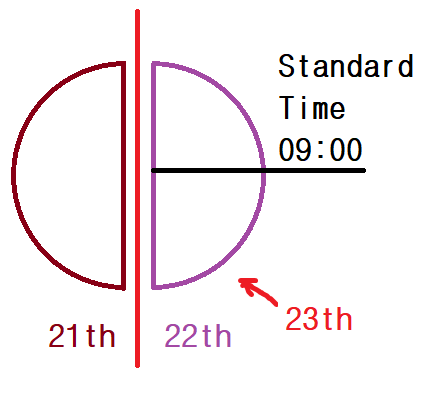
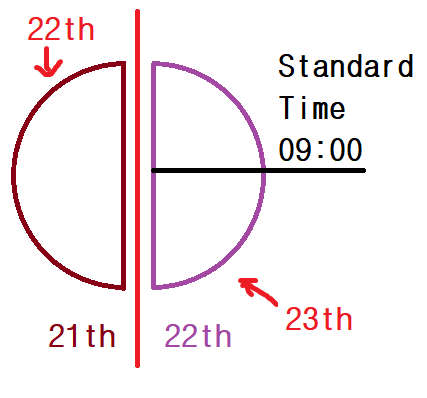
설명 수정

Changed region(s): [[0.0609, 0.0302, 0.2436, 0.2111]]

diff --git a/DGU_TimeScheduler/README.md b/DGU_TimeScheduler/README.md
@@ -9,14 +9,16 @@
 
 예>
 기준 시간 '09:00'이면 '2024-05-21 09:00:00 ~ 2024-05-22 08:59:59' 까지는 '2024-05-21'로 표시됩니다.
+![이미지](https://raw.githubusercontent.com/dang-gun/DGUtility_DotNet/main/DGU_TimeTest/ProjectFiles/DGU_TimeStandard_001.png)
 
 반대의 기능도 있습니다.
 예>
 기준 시간 '09:00'이면 '2024-05-22 09:00:00 ~ 2024-05-23 08:59:59' 까지는 '2024-05-23'로 표시됩니다.
+![이미지](https://raw.githubusercontent.com/dang-gun/DGUtility_DotNet/main/DGU_TimeTest/ProjectFiles/DGU_TimeStandard_002.png)
 
 ## 사용방법
 1. TimeScheduler를 생성합니다.
-1. 
+
 ```
 TimeScheduler tsObj = new TimeScheduler(DateTime.Now, true);
 ```
@@ -31,3 +33,13 @@ bNextDay : 기준 시간이 지나면 다음날 취급할지 여부
 - 기본값 : false
 - true : 기준 시간이 지나면 다음날로 취급한다.
 - false : 기준 시간 지나기 전까지는 전날로 취급한다.
+
+2. 이벤트 연결
+1. 
+생성한 TimeScheduler 개체에 필요한 이벤트를 연결합니다.
+
+해당 조건에 맞는 타이밍에 이벤트가 전달됩니다.
+
+```
+tsObj.On1Second += TS_On1Second;
+```

diff --git a/DGU_TimeStandard/README.md b/DGU_TimeStandard/README.md
@@ -4,10 +4,12 @@
 
 예>
 기준 시간 '09:00'이면 '2024-05-21 09:00:00 ~ 2024-05-22 08:59:59' 까지는 '2024-05-21'로 표시됩니다.
+![이미지](https://raw.githubusercontent.com/dang-gun/DGUtility_DotNet/main/DGU_TimeTest/ProjectFiles/DGU_TimeStandard_001.png)
 
 반대의 기능도 있습니다.
 예>
 기준 시간 '09:00'이면 '2024-05-22 09:00:00 ~ 2024-05-23 08:59:59' 까지는 '2024-05-23'로 표시됩니다.
+![이미지](https://raw.githubusercontent.com/dang-gun/DGUtility_DotNet/main/DGU_TimeTest/ProjectFiles/DGU_TimeStandard_002.png)
 
 ## 사용방법
 
